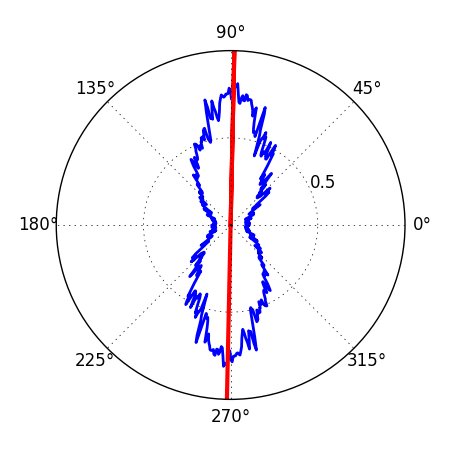
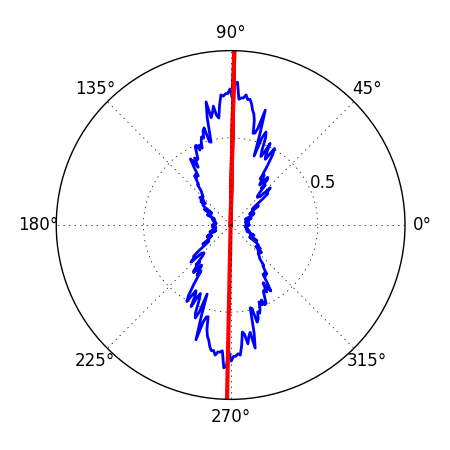
This commit is after I took back the Settings signals y slots functionality.

diff --git a/fiberfit/fiberfit_control.py b/fiberfit/fiberfit_control.py
@@ -23,40 +23,32 @@ from PyQt5.QtCore import pyqtSlot, pyqtSignal, Qt
 from PyQt5.QtWidgets import QDialogButtonBox, QVBoxLayout, QDialog
 from fiberfit import SettingsDialog
 
+
 class SettingsWindow(QDialog, SettingsDialog.Ui_Dialog):
-    sendValues = pyqtSignal(float, float, float, float)
-    def __init__(self, parent = None):
+    def __init__(self, parent=None):
         super(SettingsWindow, self).__init__(parent)
         self.setupUi(self)
-        self.sendValues.connect(fft_mainWindow.processImages)
-        self.buttonBox.button(QDialogButtonBox.Ok).clicked.connect(self.acceptValues)
 
     @pyqtSlot()
-    def makeChanges(self):
+    def do_change(self):
         self.show()
 
-    def acceptValues(self):
-        uCut = float(self.ttopField.text())
-        lCut = float(self.tbottomField.text())
-        angleInc = float(self.btopField.text())
-        radStep = float(self.bbottomField.text())
-        print(uCut, lCut, angleInc, radStep)
-        self.sendValues.emit(uCut, lCut, angleInc, radStep)
 
 class ReportDialog(QDialog):
     printerRequest = pyqtSignal()
+
     def __init__(self, parent=None):
         super(ReportDialog, self).__init__(parent)
         self.printer = QPrinter(QPrinter.PrinterResolution)
         self.buttonBox = QDialogButtonBox(self)
         self.buttonBox.setOrientation(Qt.Horizontal)
-        self.buttonBox.setStandardButtons(QDialogButtonBox.Cancel|QDialogButtonBox.Save)
+        self.buttonBox.setStandardButtons(QDialogButtonBox.Cancel | QDialogButtonBox.Save)
         self.textBrowser = QWebView(self)
         self.textBrowser.setHtml("This is a QTextBrowser!")
         self.verticalLayout = QVBoxLayout(self)
         self.verticalLayout.addWidget(self.textBrowser)
         self.verticalLayout.addWidget(self.buttonBox)
-        #Signals and slots:
+        # Signals and slots:
         self.buttonBox.button(QDialogButtonBox.Save).clicked.connect(self.print)
         self.printerRequest.connect(self.printerSetup)
 
@@ -68,10 +60,9 @@ class ReportDialog(QDialog):
     def printerSetup(self):
         self.printer.setPageSize(QPrinter.A4)
         self.printer.setOutputFormat(QPrinter.PdfFormat)
-        #self.printer.setPageMargins(10, 10 , 10 , 10 , QPrinter.Inch)
+        # self.printer.setPageMargins(10, 10 , 10 , 10 , QPrinter.Inch)
         self.printer.setFullPage(True)
-        self.printer.setOutputFileName('ResultTable')
-
+        self.printer.setOutputFileName('ResultTable.pdf')
 
     def createHtml(self, model):
         html = """
@@ -97,19 +88,20 @@ class ReportDialog(QDialog):
                 </div>
             </body>
         </html>
-        """.format(name = model.filename.stem,th = model.th, k = model.k,
-                   encodedOrgImg = model.orgImgEncoded.translate('bn\''),
-                   encodedLogScl = model.logSclEncoded.translate('bn\''),
-                   encodedAngDist = model.angDistEncoded.translate('bn\''),
-                   encodedCartDist = model.cartDistEncoded.translate('bn\''),
-                   date = model.timeStamp)
-        #print(html)
+        """.format(name=model.filename.stem, th=model.th, k=model.k,
+                   encodedOrgImg=model.orgImgEncoded.translate('bn\''),
+                   encodedLogScl=model.logSclEncoded.translate('bn\''),
+                   encodedAngDist=model.angDistEncoded.translate('bn\''),
+                   encodedCartDist=model.cartDistEncoded.translate('bn\''),
+                   date=model.timeStamp)
+        # print(html)
         return html
 
     @pyqtSlot(img_model.ImgModel)
     def do_test(self, model):
         self.textBrowser.setHtml(self.createHtml(model))
         self.show()
+
 
 class fft_mainWindow(fiberfit_GUI.Ui_MainWindow, QtWidgets.QMainWindow):
     results = open('test.csv', 'a')  # All instances would have this as a starter. Initialized later in code.
@@ -130,12 +122,12 @@ class fft_mainWindow(fiberfit_GUI.Ui_MainWindow, QtWidgets.QMainWindow):
         self.isStarted = False
         self.filenames = []
         self.firstOne = True
-        #Canvases to display the figures.
+        # Canvases to display the figures.
         self.imgCanvas = None
         self.logSclCanvas = None
         self.angDistCanvas = None
         self.cartDistCanvas = None
-        #Pops up a dialog with
+        # Pops up a dialog with
         self.dialogTextBrowser = ReportDialog(self)
         self.settingsBrowser = SettingsWindow(self)
         # All the events happen below
@@ -145,10 +137,12 @@ class fft_mainWindow(fiberfit_GUI.Ui_MainWindow, QtWidgets.QMainWindow):
         self.loadButton.clicked.connect(self.launch)
         self.clearButton.clicked.connect(self.clear)
         self.exportButton.clicked.connect(lambda i: self.show_report.emit(self.currentIndex))
+        self.exportButton.clicked.connect(self.export)
+
         self.show_report.connect(self.do_show_report)
         self.make_report.connect(self.dialogTextBrowser.do_test)
-        self.settingsButton.clicked.connect(self.do_change_settings)
-        self.change_settings.connect(self.settingsBrowser.makeChanges)
+
+        self.settingsButton.clicked.connect(self.settingsBrowser.do_change)
 
         # sends off a signal containing string.
         # Conveniently the string will be the name of the file.
@@ -160,12 +154,9 @@ class fft_mainWindow(fiberfit_GUI.Ui_MainWindow, QtWidgets.QMainWindow):
         self.show_report.connect(userLog)
         """
 
-    def do_change_settings(self):
-        self.change_settings.emit()
-
     def do_show_report(self, index):
-        print('Shows report')
-        self.make_report.emit(self.imgList[self.currentIndex])
+        if (self.isStarted):
+            self.make_report.emit(self.imgList[self.currentIndex])
 
     """
     Clears out canvas.
@@ -201,20 +192,11 @@ class fft_mainWindow(fiberfit_GUI.Ui_MainWindow, QtWidgets.QMainWindow):
     Processes selected images. Displays it onto a canvas.
     Technical: Creates img_model objects that encapsulate all of the useful data.
     """
-    @pyqtSlot(float, float, float, float)
-    def processImages(self, uCut = float, lCut = float, angleInc = float, radialStep = float):
-        if uCut == None:
-            uCut = 2
-        if lCut == None:
-            lCut = 32
-        if angleInc == None:
-            angleInc = 1
-        if radialStep == None:
-            radialStep = 0.5
+    # @PyQt.Slot(List)
+    def processImages(self):
         for filename in self.filenames:
             # Retrieve Figures from data analysis code
-            print(uCut, lCut, radialStep, angleInc)
-            k, th, angDist, cartDist, logScl, orgImg = computerVision_BP.process_image(filename, uCut, lCut, radialStep, angleInc)
+            k, th, angDist, cartDist, logScl, orgImg = computerVision_BP.process_image(filename)
             # Starting from Python3, there is a distinctin between bytes and str. Thus, I can't use
             # methods of str on bytes. However I need to do that in order to properly encode the image
             # into b64. The main thing is that bytes-way produces some improper characters that mess up
@@ -224,24 +206,24 @@ class fft_mainWindow(fiberfit_GUI.Ui_MainWindow, QtWidgets.QMainWindow):
             logSclEncoded = base64.encodebytes(open('logScl.png', 'rb').read()).decode('utf-8')
             orgImgEncoded = base64.encodebytes(open('orgImg.png', 'rb').read()).decode('utf-8')
 
-            #Creates an object
+            # Creates an object
             processedImage = img_model.ImgModel(
                 filename=filename,
                 k=k,
                 th=th,
                 orgImg=orgImg,
-                orgImgEncoded = orgImgEncoded,
+                orgImgEncoded=orgImgEncoded,
                 logScl=logScl,
-                logSclEncoded = logSclEncoded,
+                logSclEncoded=logSclEncoded,
                 angDist=angDist,
-                angDistEncoded = angDistEncoded,
+                angDistEncoded=angDistEncoded,
                 cartDist=cartDist,
-                cartDistEncoded = cartDistEncoded,
+                cartDistEncoded=cartDistEncoded,
                 timeStamp=datetime.datetime.now().strftime("%A, %d. %B %Y %I:%M%p"))
 
             # Ordered Set
             self.imgList.add(processedImage)
-            #TODO: Don't compute the ones that are already in.
+            # TODO: Don't compute the ones that are already in.
         if self.isStarted:
             # removes/deletes all canvases
             self.cleanCanvas()
@@ -301,7 +283,7 @@ class fft_mainWindow(fiberfit_GUI.Ui_MainWindow, QtWidgets.QMainWindow):
 
     def start(self):
         # Processes selected images; sets up the labels and fills selectImgBox with references to images.
-        #TODO: Make an exception to catch IndexError, and pop the window with appropriate message.
+        # TODO: Make an exception to catch IndexError, and pop the window with appropriate message.
         self.processImages()
         self.setupLabels(self.currentIndex)
         self.populateComboBox()
@@ -349,11 +331,12 @@ class fft_mainWindow(fiberfit_GUI.Ui_MainWindow, QtWidgets.QMainWindow):
     """
     Exports results into a .csv file.
     """
-    # TODO: Need to add saving of PDF option.
+
     def export(self):
         for i in range(self.csvIndex, len(self.imgList)):
             self.dataList.append(
-                [self.imgList.__getitem__(i).filename.stem, self.imgList.__getitem__(i).th, self.imgList.__getitem__(i).k,
+                [self.imgList.__getitem__(i).filename.stem, self.imgList.__getitem__(i).th,
+                 self.imgList.__getitem__(i).k,
                  self.imgList.__getitem__(i).timeStamp])
             self.csvIndex += 1
         with open('test.csv', 'w') as csvfile:
@@ -377,6 +360,7 @@ class fft_mainWindow(fiberfit_GUI.Ui_MainWindow, QtWidgets.QMainWindow):
                 # sets current index to the index of the found image.
                 self.currentIndex = self.imgList.index(image)
 
+
 def main():
     """
     Enters an event-loop.
@@ -385,6 +369,7 @@ def main():
     fft_app = fft_mainWindow()
     fft_app.show()
     sys.exit(app.exec_())
+
 
 if __name__ == "__main__":
     main()

diff --git a/fiberfit/computerVision_BP.py b/fiberfit/computerVision_BP.py
@@ -33,7 +33,8 @@ from fiberfit.helpers import *  # XXX: Changed here
 
 figSize = 4.5
 
-def process_histogram(PabsFlip, N1, uCut, lCut, radialStep, angleInc):
+
+def process_histogram(PabsFlip, N1):
     # %%%%%%%%%%%%%%%%%%%%%%%%%%%%%%%%%%%%%%%%%%%%%%%%
     #           Create orientation Histogram         %
     #    Sum pixel intensity along different angles  %
@@ -41,19 +42,13 @@ def process_histogram(PabsFlip, N1, uCut, lCut, radialStep, angleInc):
     n1 = np.round(N1 / 2) - 1
     freq = np.arange(-n1, n1 + 1, 1)
     x, y = freq, freq
-    print(uCut, lCut, radialStep, angleInc)
-    #Variables to be used in settings
-    CO_lower = lCut
-    CO_upper = uCut
-    ang_inc = angleInc
-    radialStep = radialStep
 
     #  Set up polar coordinates prior to summing the spectrum
-    theta1Rad = np.linspace(0.0, 2 * math.pi, num=360/ang_inc)
-    f1 = np.round_(N1 / (2 * CO_lower))
-    f2 = np.round_(N1 / (2 * CO_upper))
+    theta1Rad = np.linspace(0.0, 2 * math.pi, num=360)
+    f1 = np.round_(N1 / (2 * 32.0))
+    f2 = np.round_(N1 / (2 * 2))
 
-    rho1 = np.linspace(f1, f2, num=(f2 - f1)/radialStep)  # frequency band
+    rho1 = np.linspace(f1, f2, num=(f2 - f1) * 2)  # frequency band
     PowerX = np.zeros((theta1Rad.size, theta1Rad.size))
     PowerY = np.zeros((theta1Rad.size))
 
@@ -170,7 +165,7 @@ def process_kappa(t_final, theta1RadFinal, normPower):
     return kappa, cartDist
 
 
-def process_image(name, uCut, lCut, angleInc, radialStep):
+def process_image(name):
     # %
     #  %%%%%%%%%%%%%%%%%%%%%%%%%%%%%%%%%%%%%%%%%%%%%%%%%%%%%%%%%%%%%%%%%%%%%%%%%
     #  FFT // POWER SPECTRUM // ANGULAR DISTRIBUTION
@@ -221,9 +216,9 @@ def process_image(name, uCut, lCut, angleInc, radialStep):
     plt.close()
 
     M, N1 = im.shape
-    print(uCut, lCut, radialStep, angleInc)
-    normPower, theta1RadFinal = process_histogram(PabsFlip, N1, uCut, lCut, radialStep, angleInc)
-    print(normPower, theta1RadFinal)
+
+    normPower, theta1RadFinal = process_histogram(PabsFlip, N1)
+
     # theta and angular distribution are getting retrieved.
     t_final, angDist = process_ellipse(normPower, theta1RadFinal)
 
